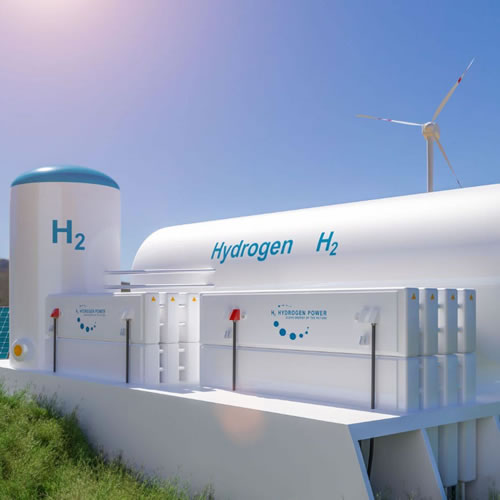
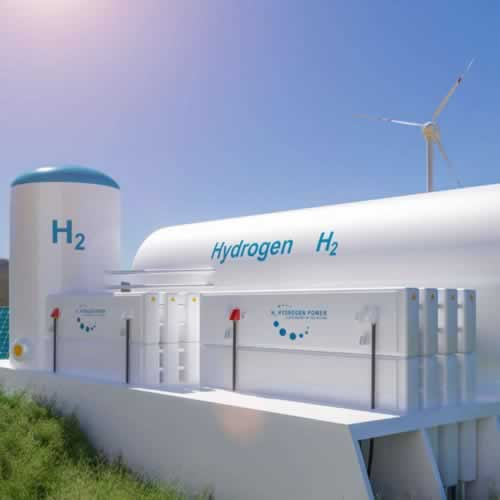
youhua img

diff --git a/_layouts/en_index.html b/_layouts/en_index.html
@@ -135,7 +135,7 @@
       <div class="row">
         <div class="col-lg-4 col-md-4">
           <div class="thumbnail">
-            <a href="{{site.baseurl}}/en/product/1.html#huwai"><img src="{{site.baseurl}}/assets/images/1.jpeg"
+            <a href="{{site.baseurl}}/en/product/1.html#huwai"><img src="{{site.baseurl}}/assets/images/1.jpg"
                 alt="..."></a>
             <div class="caption">
               <h3>Outdoor protection</h3>
@@ -153,7 +153,7 @@
         </div>
         <div class="col-lg-4 col-md-4">
           <div class="thumbnail">
-            <a href="{{site.baseurl}}/en/product/5.html#gaishu"><img src="{{site.baseurl}}/assets/images/3.jpeg"
+            <a href="{{site.baseurl}}/en/product/5.html#gaishu"><img src="{{site.baseurl}}/assets/images/3.jpg"
                 alt="..."></a>
             <div class="caption">
               <h3>5G Electronics</h3>

diff --git a/_layouts/index.html b/_layouts/index.html
@@ -132,7 +132,7 @@
       <div class="row">
         <div class="col-lg-4 col-md-4">
           <div class="thumbnail">
-            <a href="{{site.baseurl}}/product/1.html#huwai"><img src="{{site.baseurl}}/assets/images/1.jpeg"
+            <a href="{{site.baseurl}}/product/1.html#huwai"><img src="{{site.baseurl}}/assets/images/1.jpg"
                 alt="..."></a>
             <div class="caption">
               <h3>户外防护</h3>
@@ -150,7 +150,7 @@
         </div>
         <div class="col-lg-4 col-md-4">
           <div class="thumbnail">
-            <a href="{{site.baseurl}}/product/5.html#gaishu"><img src="{{site.baseurl}}/assets/images/3.jpeg"
+            <a href="{{site.baseurl}}/product/5.html#gaishu"><img src="{{site.baseurl}}/assets/images/3.jpg"
                 alt="..."></a>
             <div class="caption">
               <h3>5G电子</h3>
